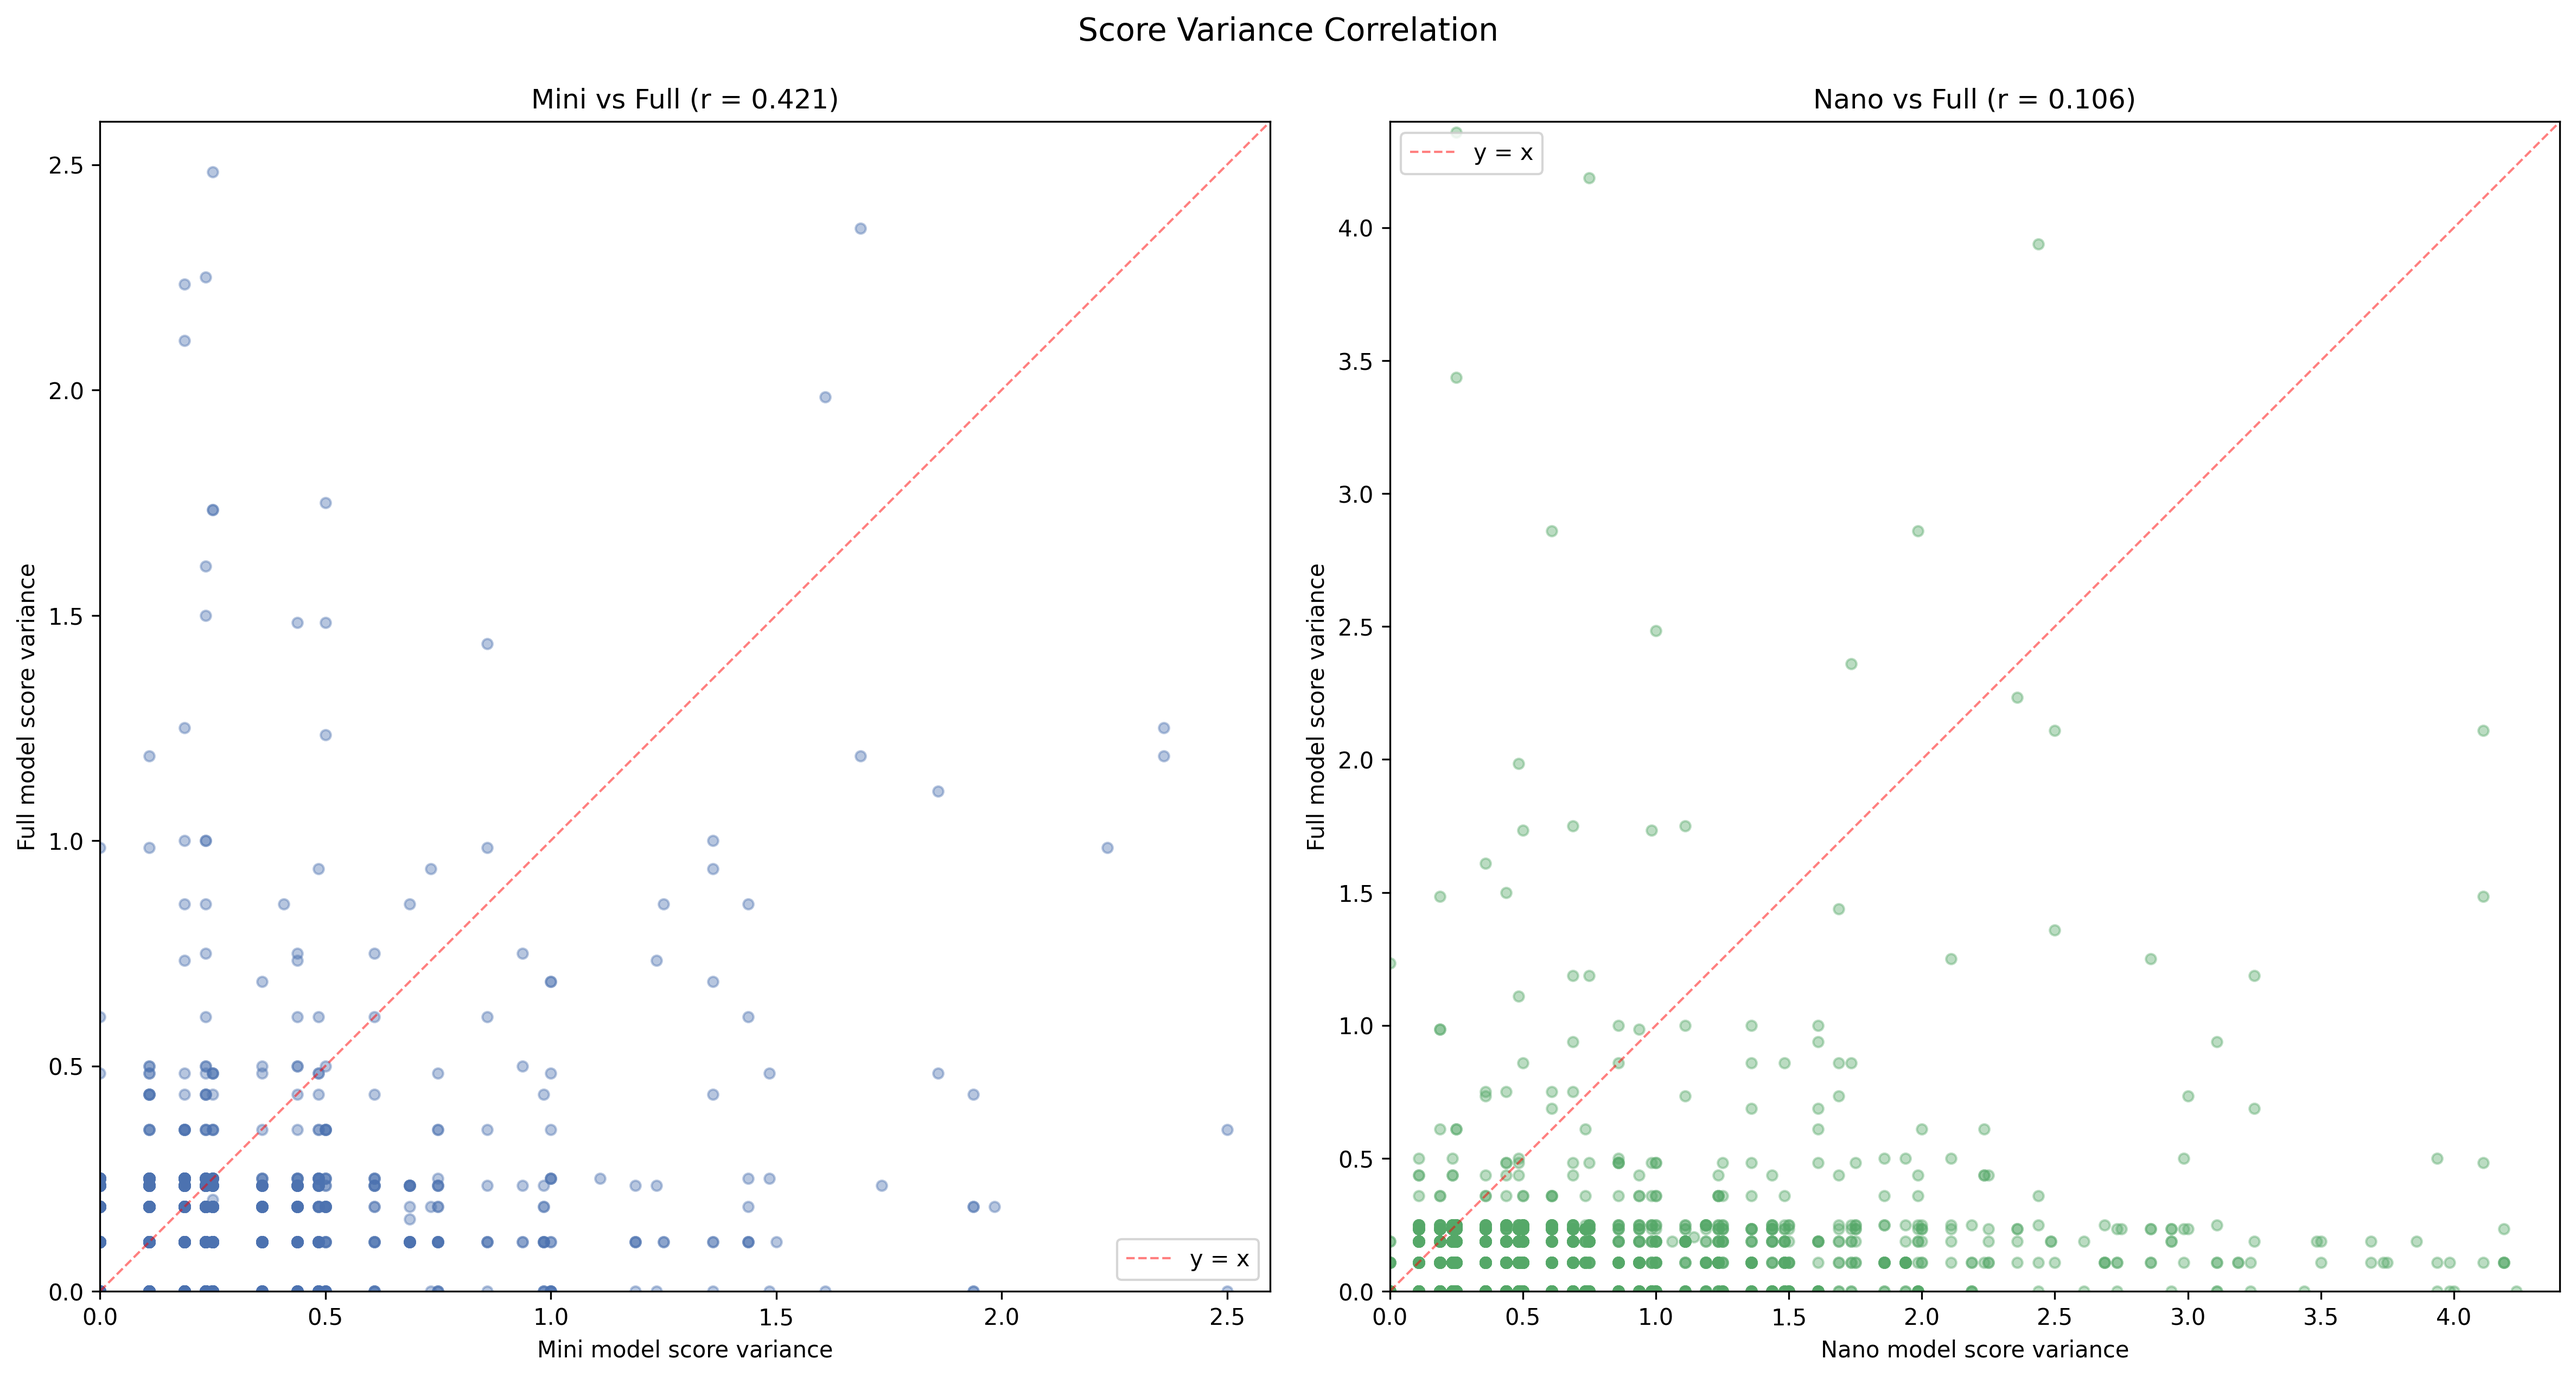
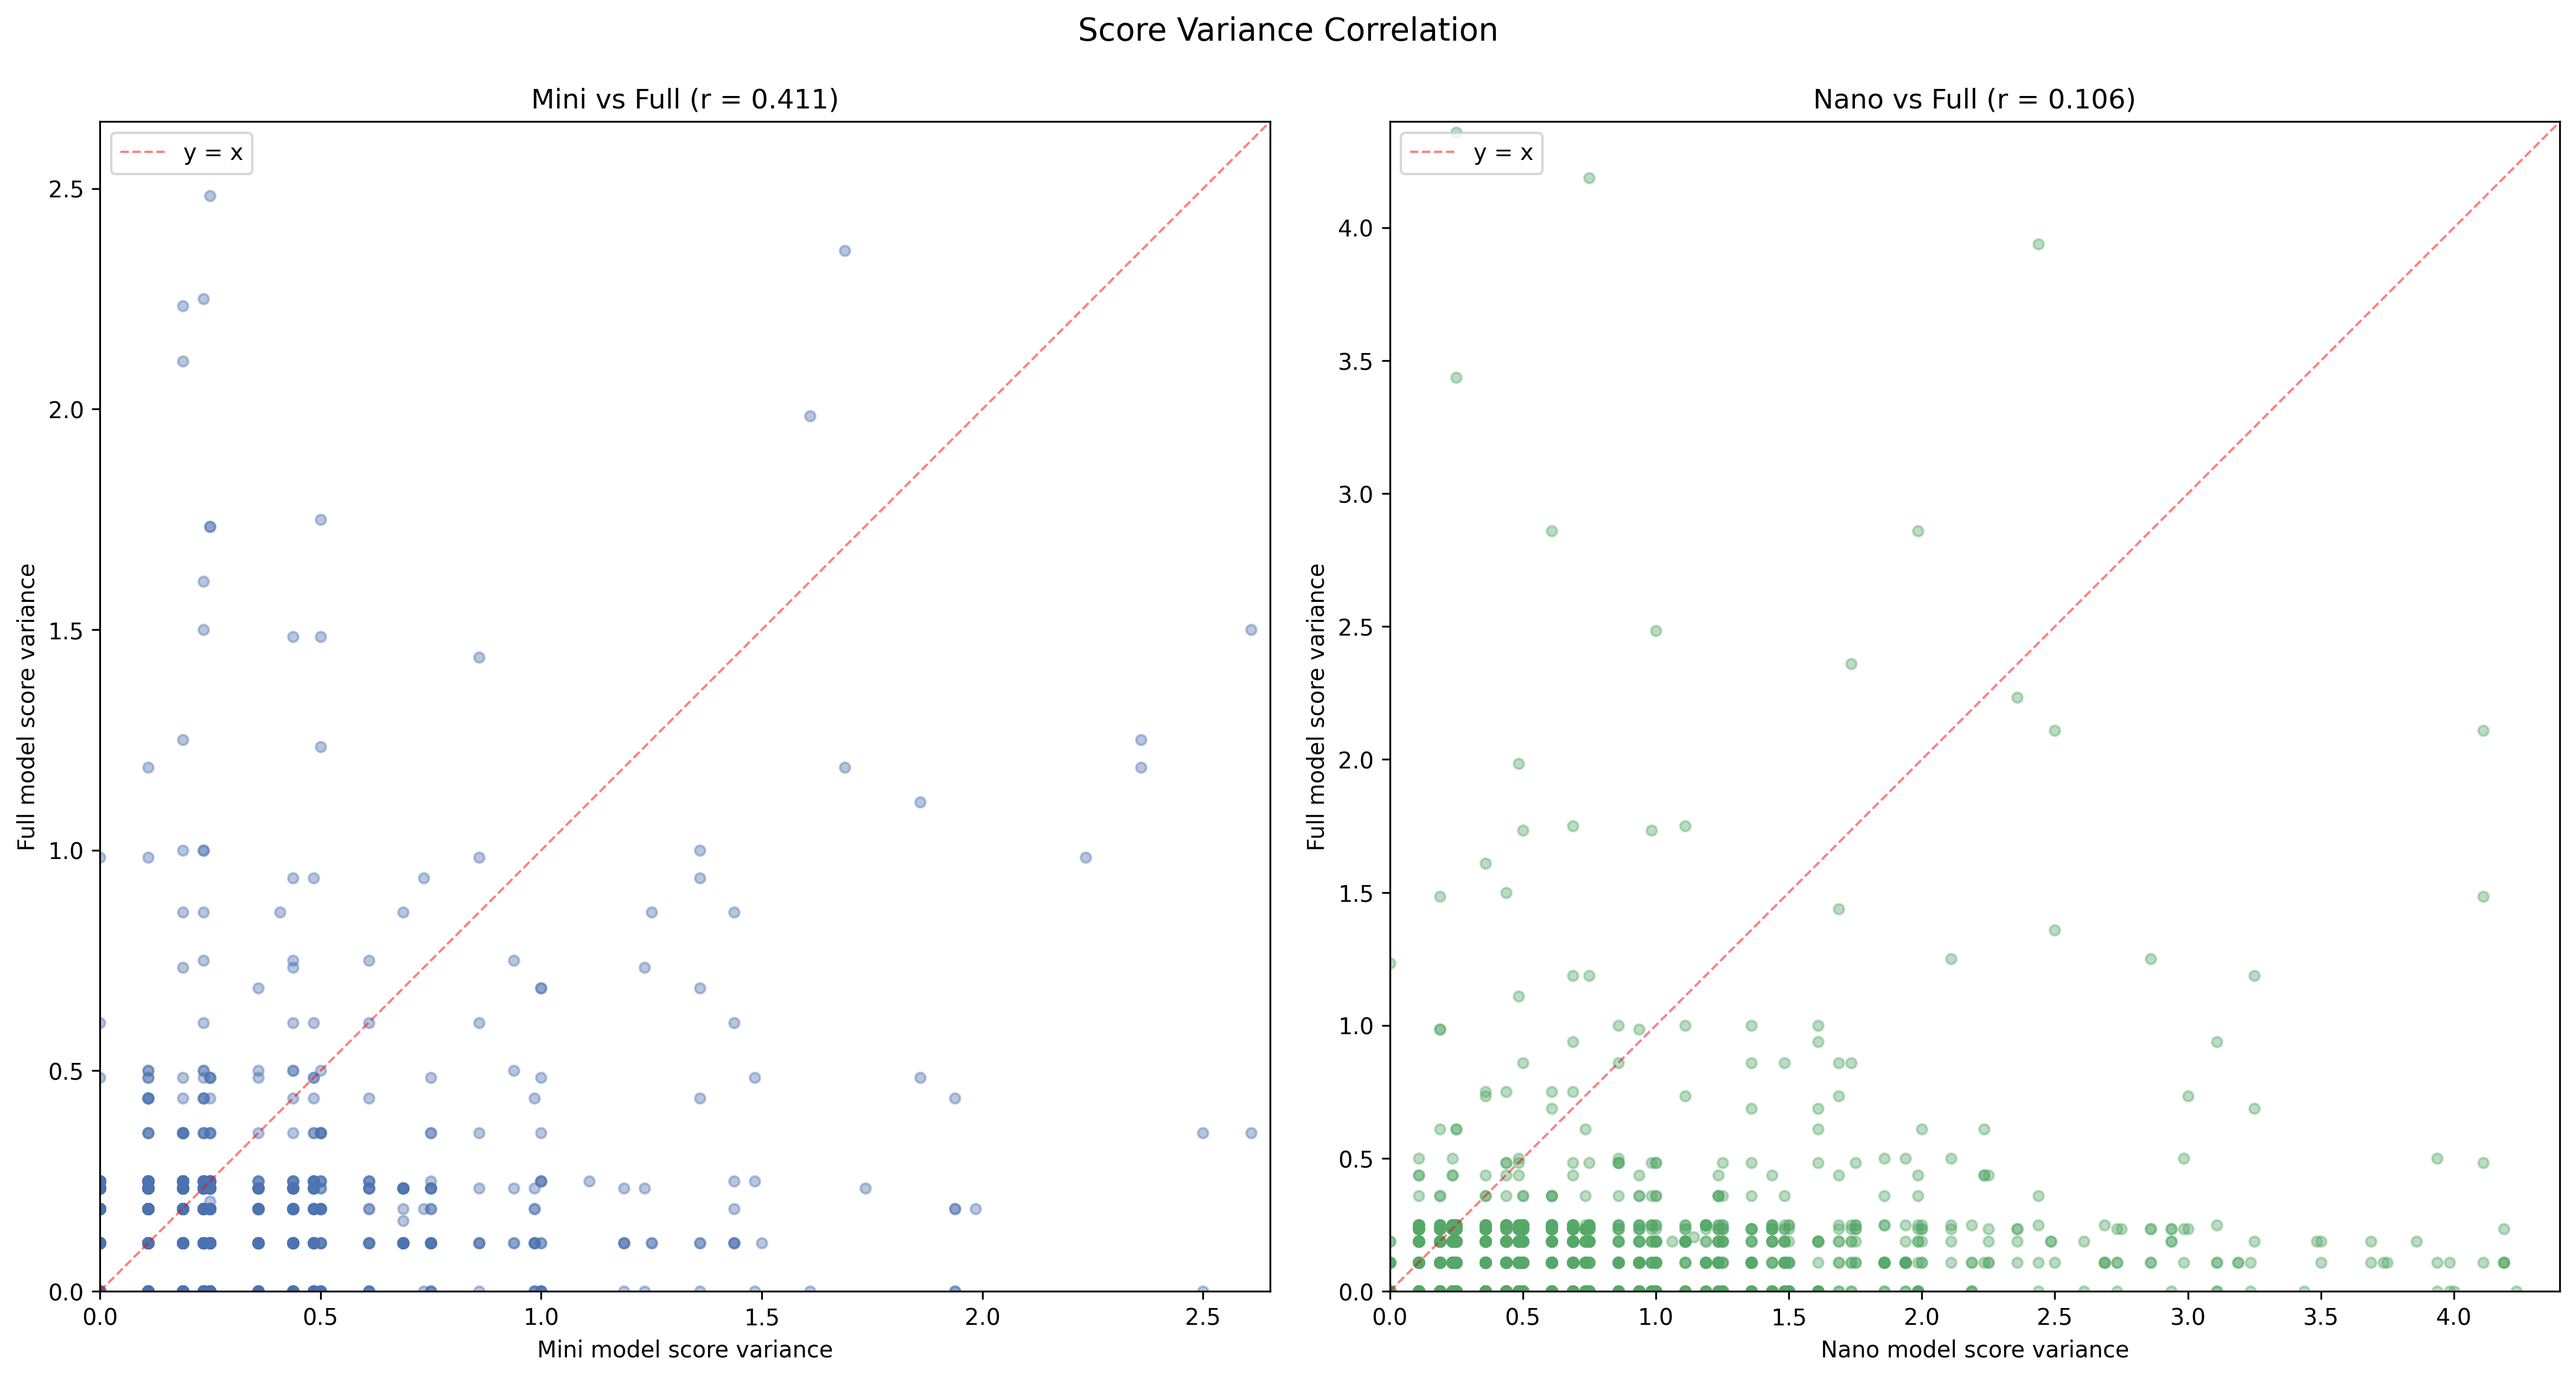
Fix merge bug that dropped non-nano examples from analysis
The nano merge logic only kept examples with matching nano IDs,
silently dropping ~25 base examples from all full/mini analysis.
Fix: keep all examples, add nano scores only where matches exist.

Also addresses PR review feedback:
- Check any() instead of data[0] for nano presence (mixed data)
- Fix print ordering: full before nano in diminishing returns
- Sharpen README mini model wording ("one-quarter the full
  ensemble's cost")

diff --git a/analysis/compute_metrics.py b/analysis/compute_metrics.py
@@ -695,6 +695,7 @@ def main():
     if base and base_nano and "nano_scores" not in base[1][0]:
         nano_by_id = {r["id"]: r for r in base_nano[1]}
         merged = []
+        n_with_nano = 0
         for r in base[1]:
             nr = nano_by_id.get(r["id"])
             if nr:
@@ -705,10 +706,10 @@ def main():
                 for tk in ("nano_input_tokens", "nano_output_tokens"):
                     if tk in nr.get("cost", {}):
                         r["cost"][tk] = nr["cost"][tk]
-                merged.append(r)
-        if merged:
-            print(f"Merged nano scores into base: {len(merged)} / {len(base[1])} examples")
-            base = (base[0], merged)
+                n_with_nano += 1
+            merged.append(r)
+        print(f"Merged nano scores into base: {n_with_nano} / {len(base[1])} examples")
+        base = (base[0], merged)
 
     # Temperature sweep files (new format only)
     temp_files = {}
@@ -777,7 +778,7 @@ def main():
         print(f"  Mini k=1: {m['accuracy']['overall']:.3f}")
 
         # Nano conditions (if nano scores are present)
-        if "nano_scores" in data[0]:
+        if any("nano_scores" in r for r in data):
             m = _condition_metrics("Nano k=8", data, "nano", k=8,
                                   deploy_models="nano", deploy_k=8)
             all_metrics["nano_k8"] = m
@@ -801,14 +802,15 @@ def main():
             a = compute_accuracy(data, model="mini", k_subset=k_sub)
             dim_mini[k_sub] = a["overall"]
         all_metrics["diminishing_returns_mini"] = dim_mini
-        if "nano_scores" in data[0]:
+        if any("nano_scores" in r for r in data):
             dim_nano = {}
             for k_sub in range(1, 9):
                 a = compute_accuracy(data, model="nano", k_subset=k_sub)
                 dim_nano[k_sub] = a["overall"]
             all_metrics["diminishing_returns_nano"] = dim_nano
-            print(f"  Diminishing returns (nano): {' '.join(f'k={k}:{v:.3f}' for k, v in dim_nano.items())}")
         print(f"  Diminishing returns (full): {' '.join(f'k={k}:{v:.3f}' for k, v in dim.items())}")
+        if "diminishing_returns_nano" in all_metrics:
+            print(f"  Diminishing returns (nano): {' '.join(f'k={k}:{v:.3f}' for k, v in all_metrics['diminishing_returns_nano'].items())}")
 
         # Variance metrics
         var = compute_variance_metrics(data, model="full")
@@ -838,7 +840,7 @@ def main():
             conv = compute_ensemble_convergence(data, cheap_model="mini")
             all_metrics["convergence"] = conv
 
-            if "nano_scores" in data[0]:
+            if any("nano_scores" in r for r in data):
                 conv_nano = compute_ensemble_convergence(data, cheap_model="nano")
                 all_metrics["convergence_nano"] = conv_nano
 

diff --git a/analysis/figures.py b/analysis/figures.py
@@ -73,7 +73,7 @@ def _find_collection(prefix: str) -> list[dict] | None:
 
 def _merge_nano(data: list[dict], prefix: str) -> list[dict]:
     """Merge standalone nano collection into data if present and needed."""
-    if data and "nano_scores" in data[0]:
+    if data and any("nano_scores" in r for r in data):
         return data
     # Strip model suffix to get the base prefix (e.g., "base_both" -> "base")
     base_prefix = prefix.split("_")[0] if "_" in prefix else prefix
@@ -95,8 +95,8 @@ def _merge_nano(data: list[dict], prefix: str) -> list[dict]:
             for tk in ("nano_input_tokens", "nano_output_tokens"):
                 if tk in nr.get("cost", {}):
                     r["cost"][tk] = nr["cost"][tk]
-            merged.append(r)
-    return merged if merged else data
+        merged.append(r)
+    return merged
 
 
 # ===================================================================
@@ -306,7 +306,7 @@ def plot_variance_correlation(metrics):
 
     from scipy import stats as sp_stats
 
-    has_nano = data and "nano_scores" in data[0]
+    has_nano = data and any("nano_scores" in r for r in data)
     n_plots = 2 if has_nano else 1
     fig, axes = plt.subplots(1, n_plots, figsize=(8 * n_plots, 8))
     if n_plots == 1:

diff --git a/README.md b/README.md
@@ -11,7 +11,7 @@ We systematically tested five techniques for improving LLM judge accuracy on [Re
 
 1. **Ask more than once.** LLM judges give different scores on every call. Request k=8 independent scores and average them — the noise cancels out. **+9.8pp at 5× cost.** Most of the gain comes by k=3.
 
-2. **Try mini models.** GPT-5.4 mini with k=8 achieves 79.2% at **1.2× baseline cost** — nearly matching the full model ensemble at a fraction of its price. Add criteria and it hits 81.5%.
+2. **Try mini models.** GPT-5.4 mini with k=8 achieves 79.2% at **1.2× baseline cost** — at one-quarter the full ensemble's cost. Add criteria and it hits 81.5%.
 
 3. **Be specific.** The standard judge prompt asks for generic qualities like "helpfulness, relevance, accuracy." Add a single sentence specifying what actually matters for each task. **+3.0pp at near-zero cost.** Criteria were pre-registered — no post-hoc tuning.
 
